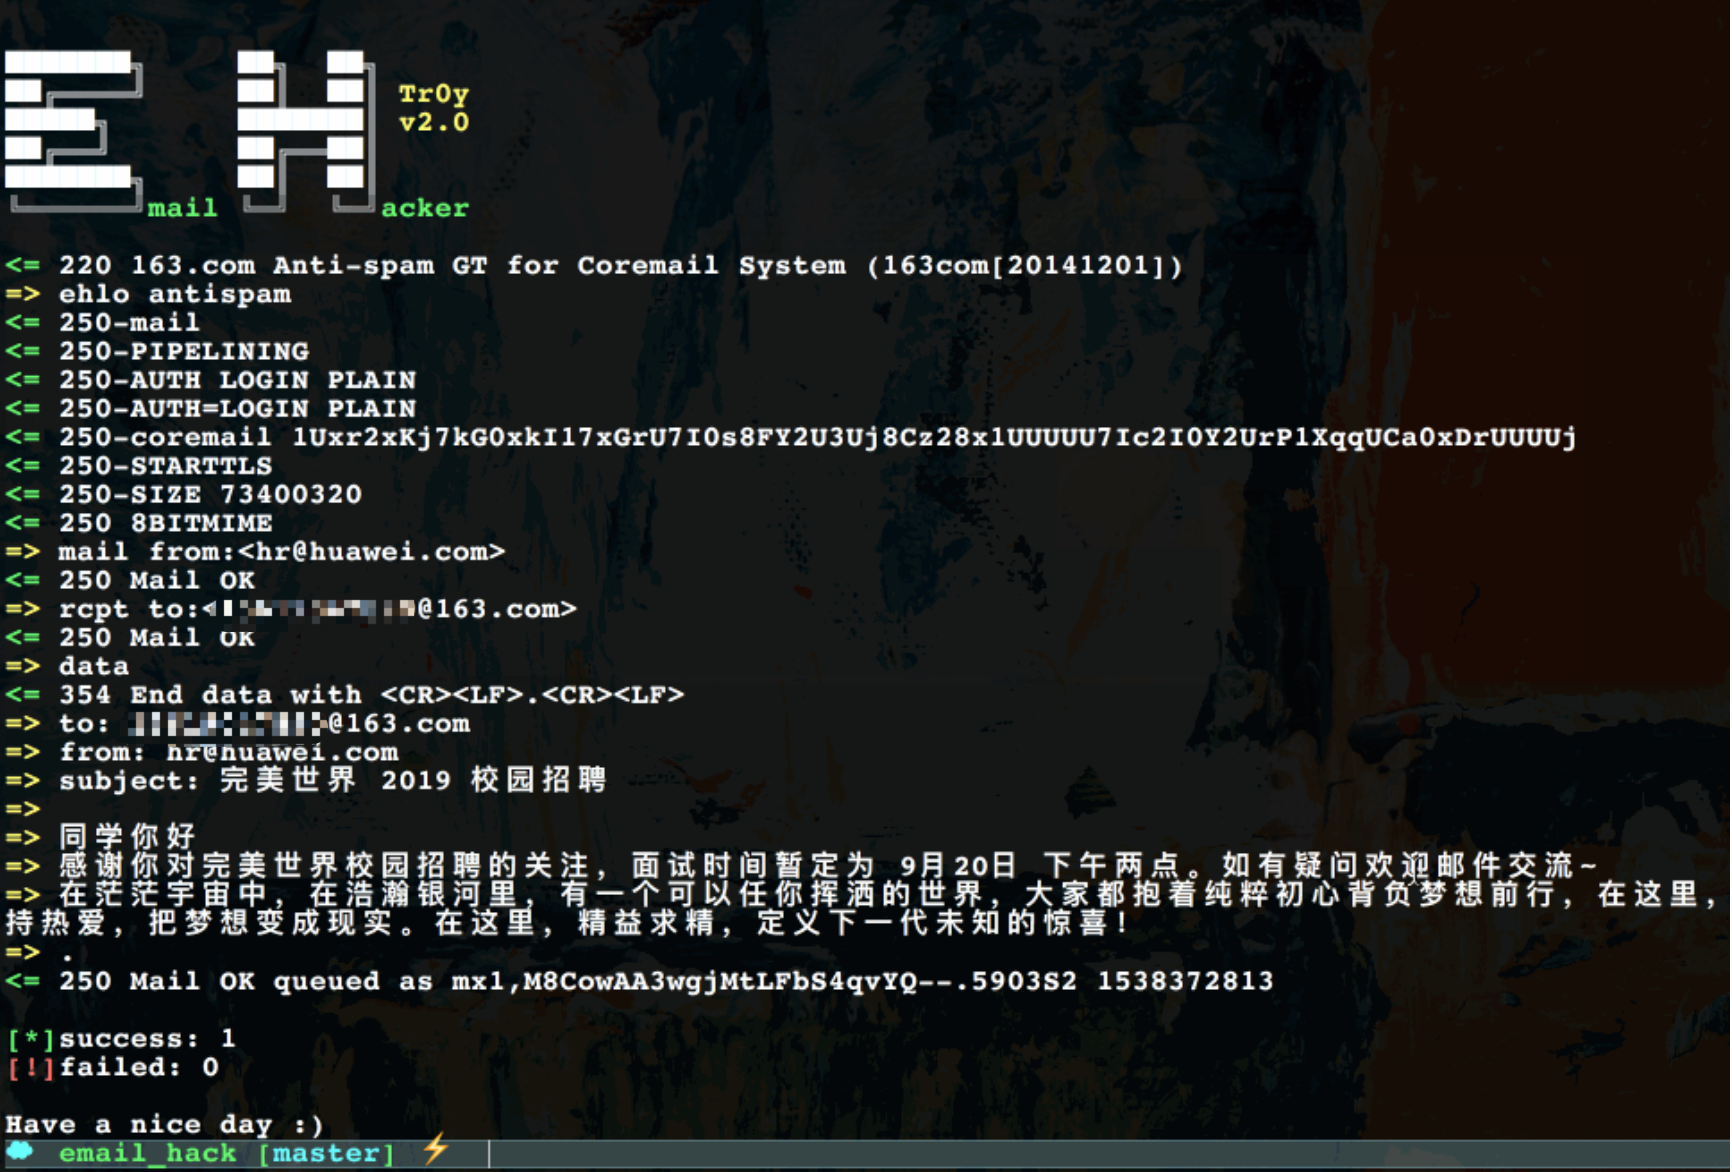
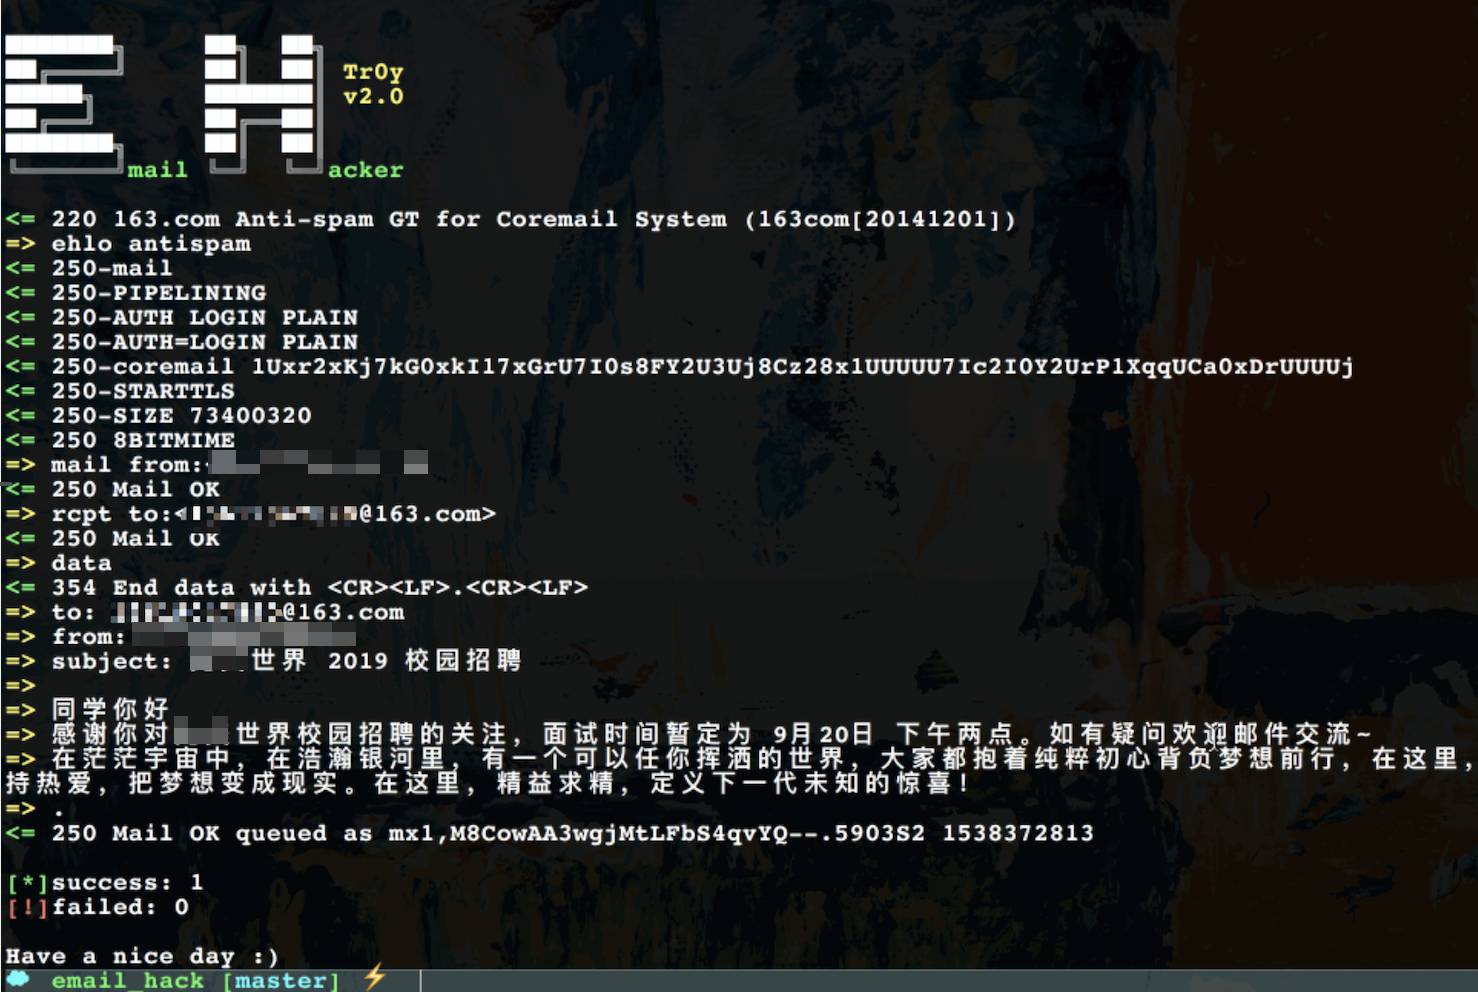
打码...

Changed region(s): [[0.0, 0.0, 1.0, 1.0]]

diff --git a/README.md b/README.md
@@ -32,13 +32,13 @@ You can come to [my blog](https://www.tr0y.wang/2018/09/26/email-hacker/) or [fr
 ### 说明书
 GIF 演示
 
-- `python email_hacker.py -faddr hr@huawei.com -taddr xxxxxx@163.com -s "完美世界 2019 校园招聘" -b "同学你好\n感谢你对完美世界校园招聘的关注，面试时间暂定为 9月20日 下午两点。如有疑问欢迎邮件交流~\n在茫茫宇宙中，在浩瀚银河里，有一个可以任你挥洒的世界，大家都抱着纯粹初心背负梦想前行，在这里，激情无限，跟志同道合的伙伴热血拼搏。在这里，秉持热爱，把梦想变成现实。在这里，精益求精，定义下一代未知的惊喜！"`
+- `python email_hacker.py -faddr hr@huawei.com -taddr xxxxxx@163.com -s "[打码]世界 2019 校园招聘" -b "同学你好\n感谢你对[打码]世界校园招聘的关注，面试时间暂定为 9月20日 下午两点。如有疑问欢迎邮件交流~\n在茫茫宇宙中，在浩瀚银河里，有一个可以任你挥洒的世界，大家都抱着纯粹初心背负梦想前行，在这里，激情无限，跟志同道合的伙伴热血拼搏。在这里，秉持热爱，把梦想变成现实。在这里，精益求精，定义下一代未知的惊喜！"`
 ![no_argv](https://raw.githubusercontent.com/Macr0phag3/email_hack/master/pics/no_argv.png)
 
-- `python email_hacker.py -faddr hr@huawei.com -taddr xxxxxx@163.com -v1 -tnum 2 -c -s "完美世界 2019 校园招聘" -b "同学你好\n感谢你对完美世界校园招聘的关注，面试时间暂定为 9月20日 下午两点。如有疑问欢迎邮件交流~\n在茫茫宇宙中，在浩瀚银河里，有一个可以任你挥洒的世界，大家都抱着纯粹初心背负梦想前行，在这里，激情无限，跟志同道合的伙伴热血拼搏。在这里，秉持热爱，把梦想变成现实。在这里，精益求精，定义下一代未知的惊喜！"`
+- `python email_hacker.py -faddr hr@huawei.com -taddr xxxxxx@163.com -v1 -tnum 2 -c -s "[打码]世界 2019 校园招聘" -b "同学你好\n感谢你对[打码]世界校园招聘的关注，面试时间暂定为 9月20日 下午两点。如有疑问欢迎邮件交流~\n在茫茫宇宙中，在浩瀚银河里，有一个可以任你挥洒的世界，大家都抱着纯粹初心背负梦想前行，在这里，激情无限，跟志同道合的伙伴热血拼搏。在这里，秉持热爱，把梦想变成现实。在这里，精益求精，定义下一代未知的惊喜！"`
 ![tnum2_v1](https://raw.githubusercontent.com/Macr0phag3/email_hack/master/pics/tnum2_v1.gif)
 
-- `python email_hacker.py -faddr hr@huawei.com -taddr xxxxxx@163.com -tnum 5 -c -s "完美世界 2019 校园招聘" -b "同学你好\n感谢你对完美世界校园招聘的关注，面试时间暂定为 9月20日 下午两点。如有疑问欢迎邮件交流~\n在茫茫宇宙中，在浩瀚银河里，有一个可以任你挥洒的世界，大家都抱着纯粹初心背负梦想前行，在这里，激情无限，跟志同道合的伙伴热血拼搏。在这里，秉持热爱，把梦想变成现实。在这里，精益求精，定义下一代未知的惊喜！"`
+- `python email_hacker.py -faddr hr@huawei.com -taddr xxxxxx@163.com -tnum 5 -c -s "[打码]世界 2019 校园招聘" -b "同学你好\n感谢你对[打码]世界校园招聘的关注，面试时间暂定为 9月20日 下午两点。如有疑问欢迎邮件交流~\n在茫茫宇宙中，在浩瀚银河里，有一个可以任你挥洒的世界，大家都抱着纯粹初心背负梦想前行，在这里，激情无限，跟志同道合的伙伴热血拼搏。在这里，秉持热爱，把梦想变成现实。在这里，精益求精，定义下一代未知的惊喜！"`
 ![tnum5_c](https://raw.githubusercontent.com/Macr0phag3/email_hack/master/pics/tnum5_c.gif)
 
 使用 ctrl+c 终止程序
